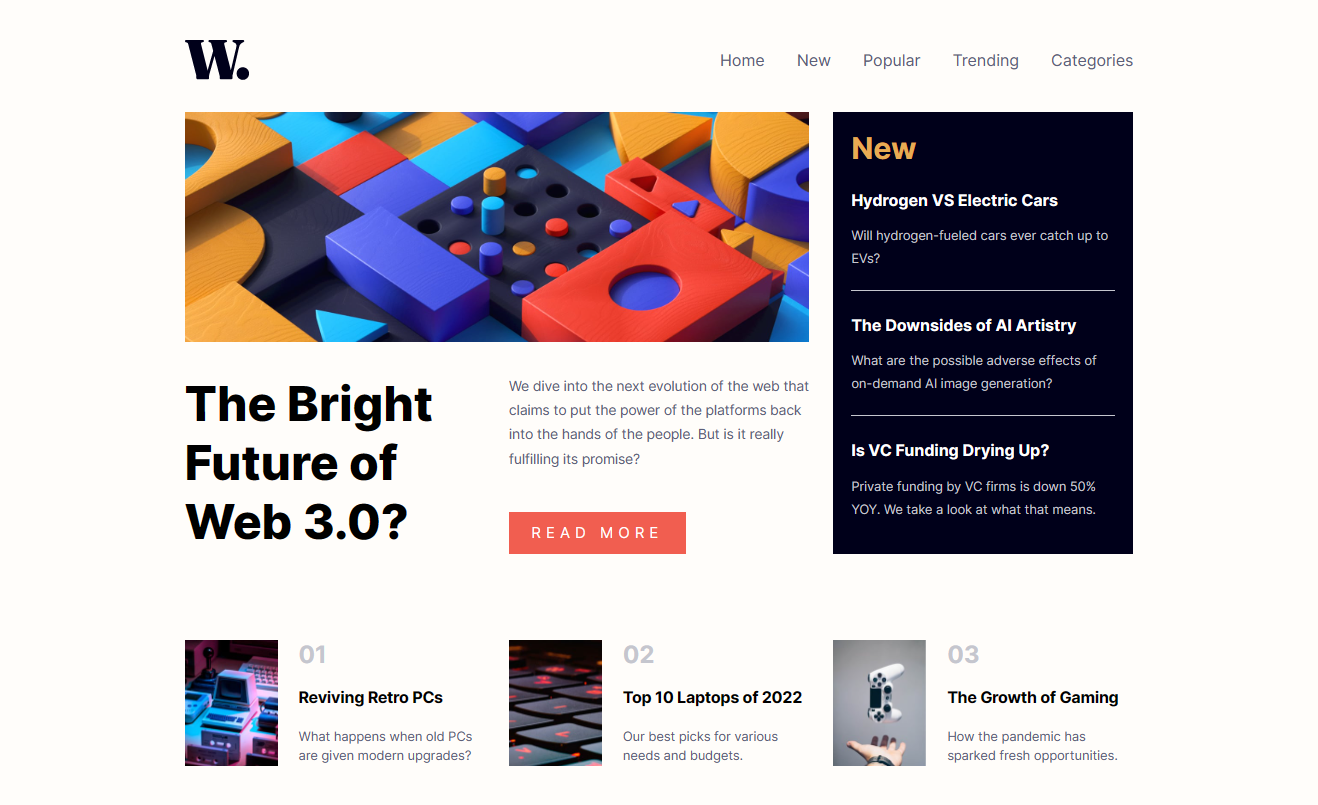
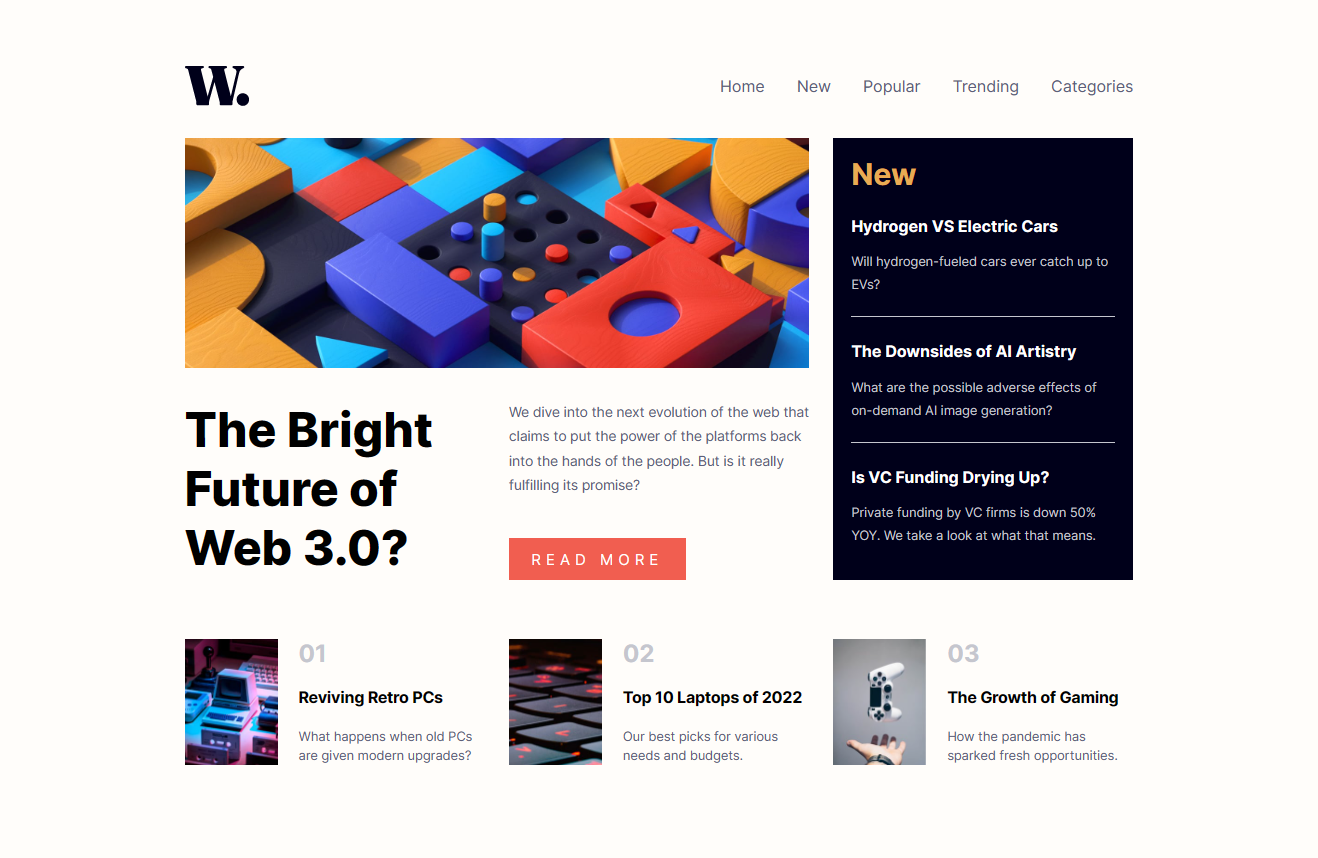
Update README.md

diff --git a/style.css b/style.css
@@ -225,7 +225,7 @@ main img {
 
 @media only screen and (min-width: 600px) {
 	.container {
-		padding: 3% 14%;
+		padding: 5% 14%;
 	}
 
 	.navbar button {
@@ -354,7 +354,7 @@ main img {
 		display: grid;
 		grid-template-columns: 1fr 2fr;
 		column-gap: 1.3rem;
-		align-self: end;
+		align-self: center;
 		margin: 0rem;
 	}
 
